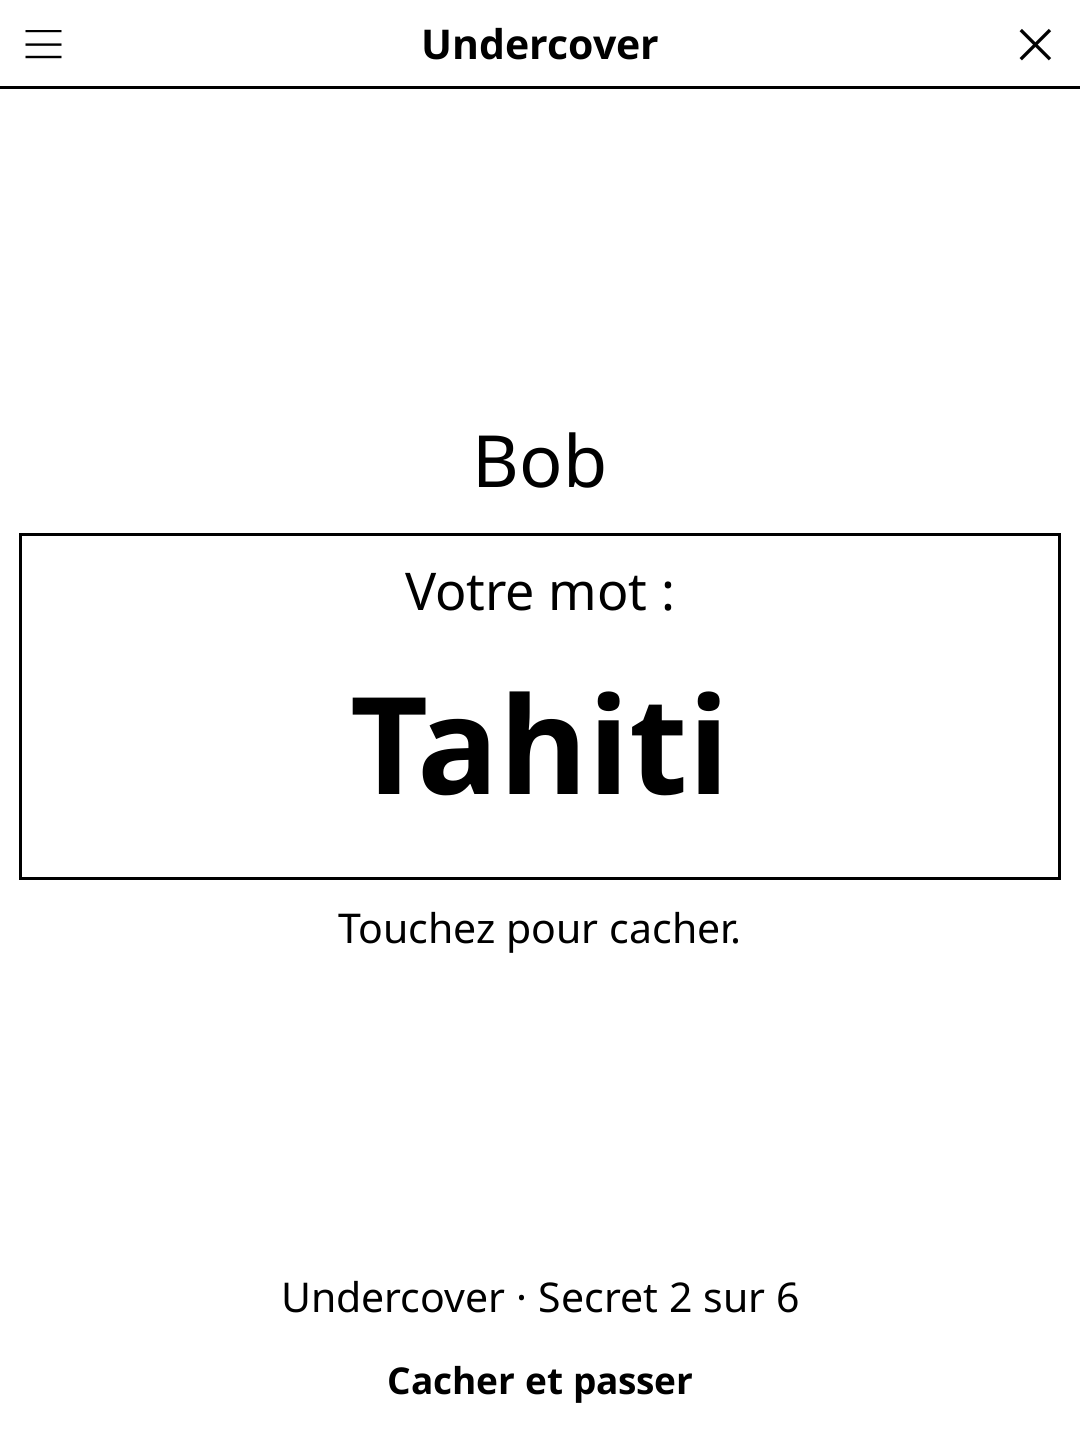
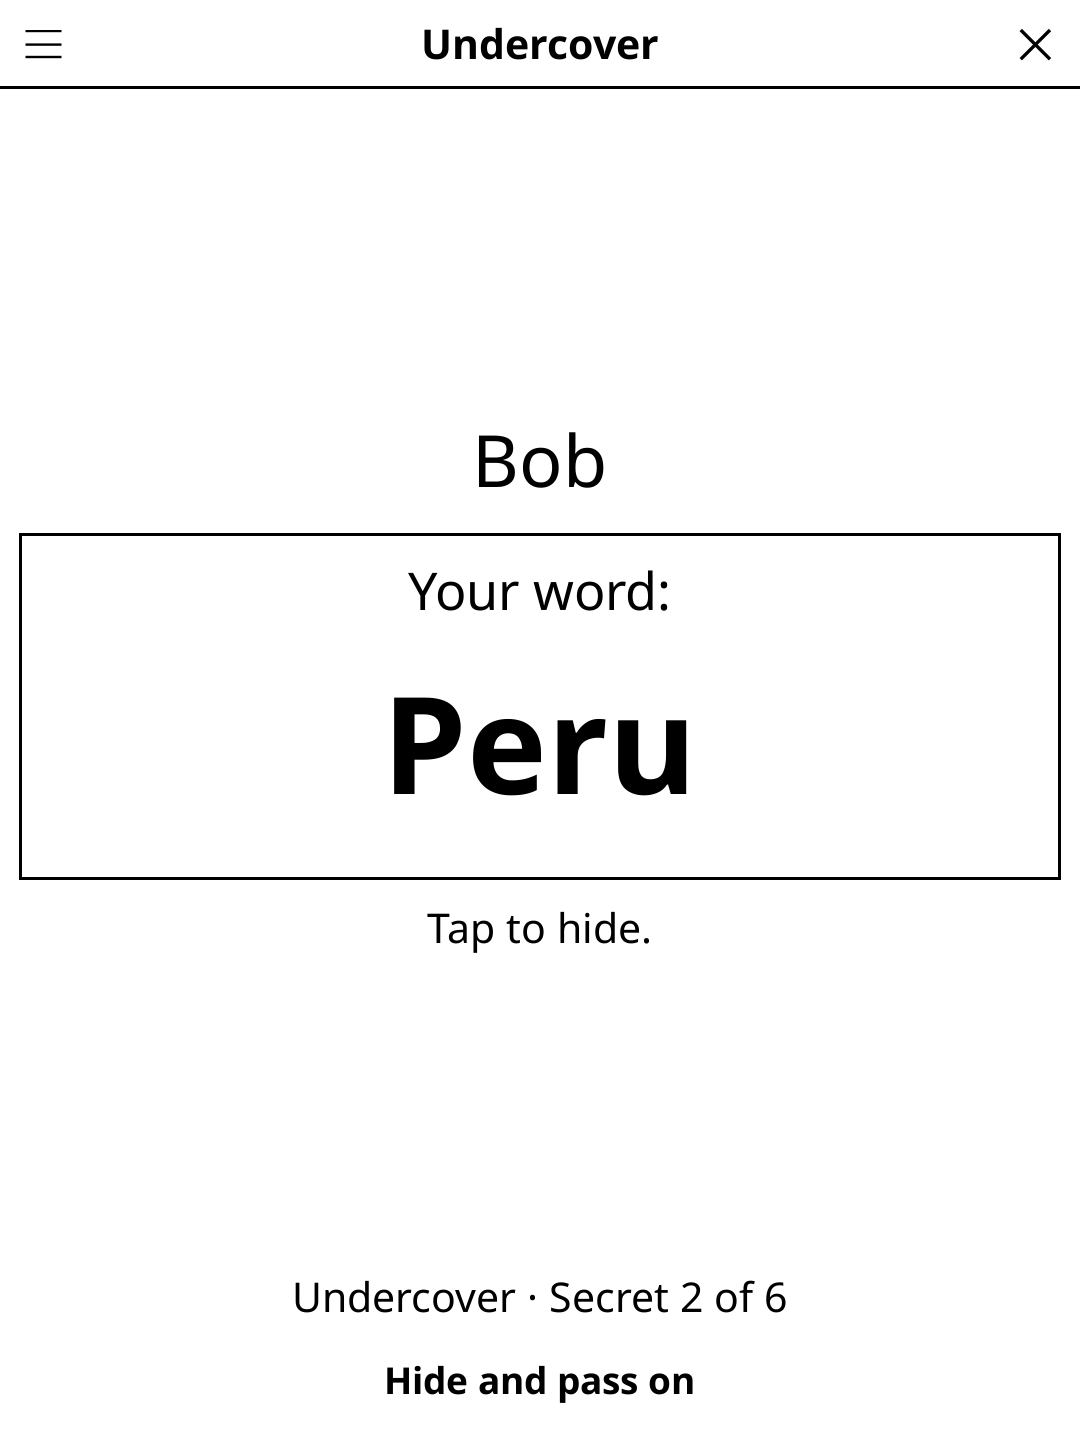
release: 1.1.8 -- Picks up game-common 1.20.0: a deferred action (timer tick, computer's
See CHANGELOG.md.

diff --git a/CHANGELOG.md b/CHANGELOG.md
@@ -1,5 +1,14 @@
 # Changelog
 
+## [1.1.8] - 2026-11-24
+
+### Changed
+- Picks up game-common 1.20.0: a deferred action (timer tick, computer's
+  move, card flip) no longer runs once the game is closed or a new game has
+  started, and the game is saved a few seconds after a move instead of after
+  every one, and at once on close, suspend or power-off.
+- The README screenshot shows the game in English.
+
 ## [1.1.7] - 2026-11-24
 
 ### Changed
